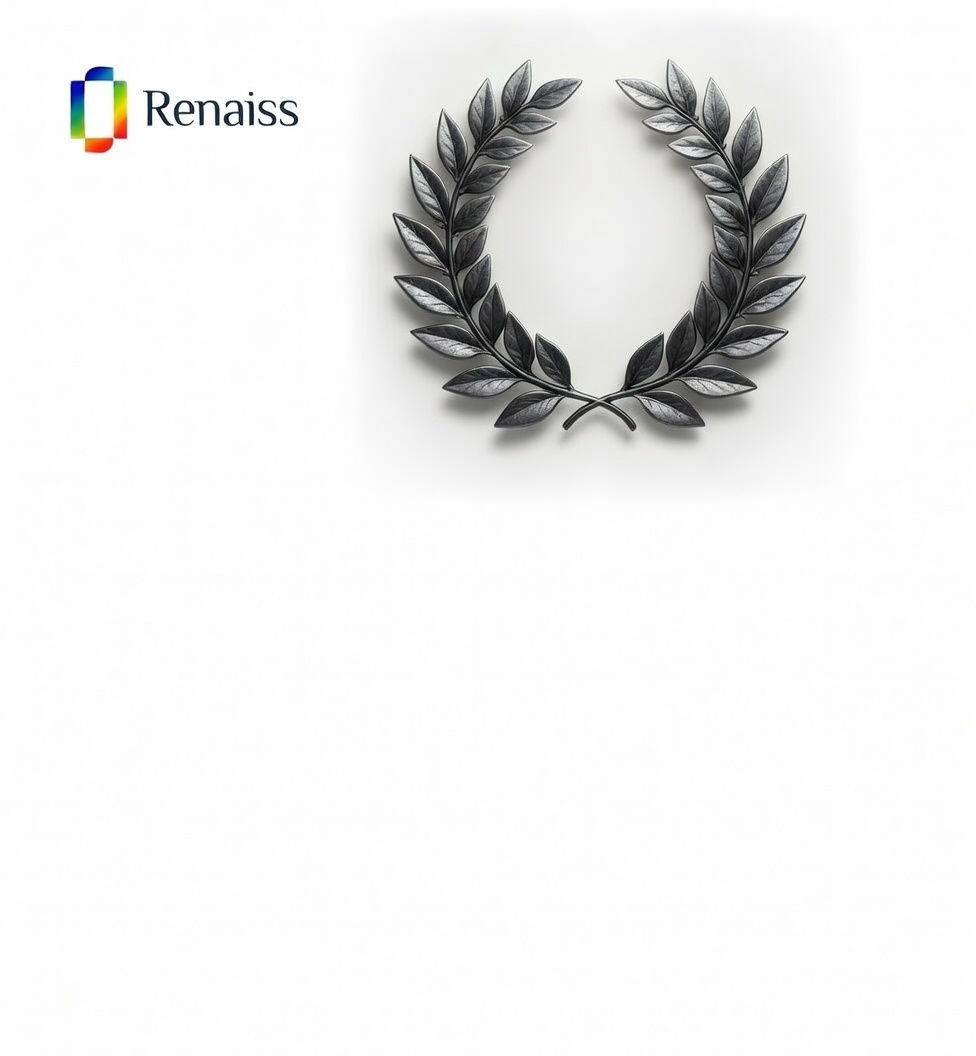
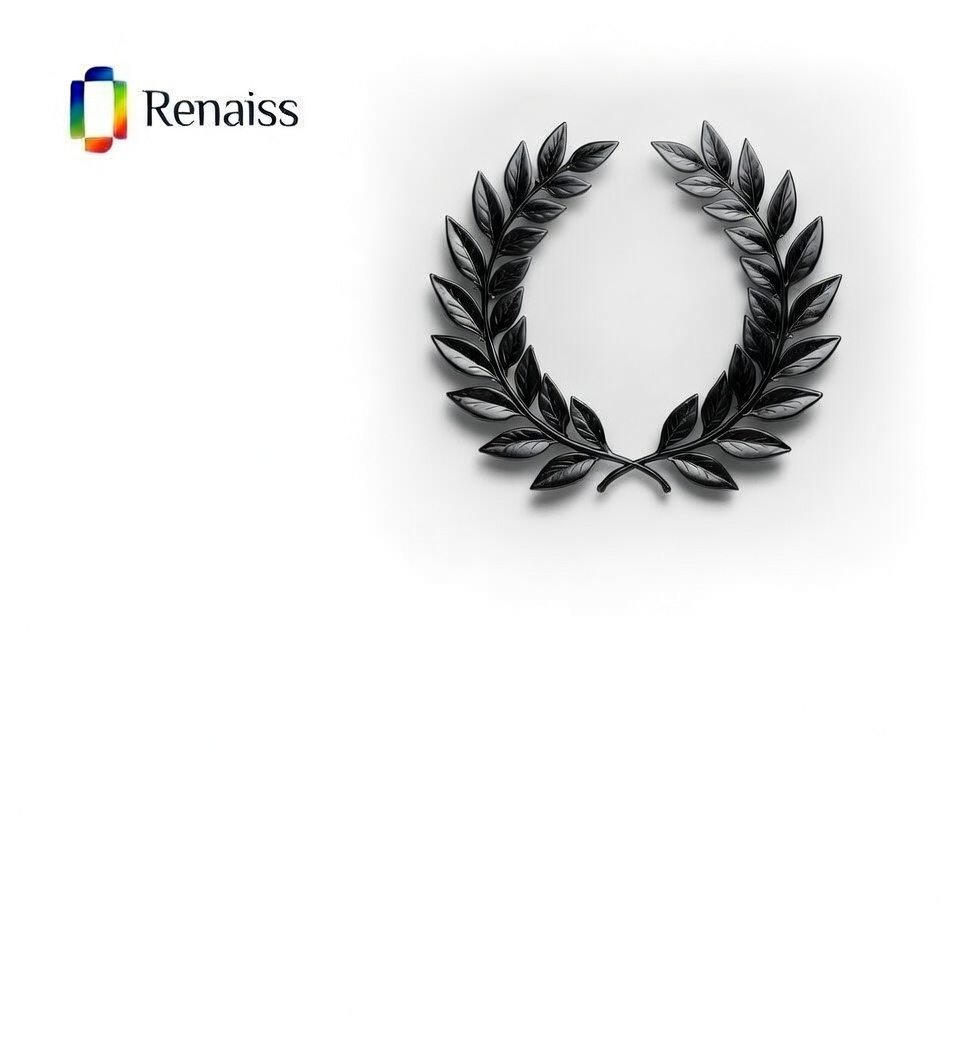
update background images and rank font dynamic scaling
- replace background images (gold/silver/copper/black)
- replace hardcoded rank font sizes with dynamic shrink loop (max width 220px)
- shift rank number 10px left, adjust RANK label and holders text position

Changed region(s): [[0.3689, 0.0625, 0.8607, 0.5], [0.1537, 0.0938, 0.3074, 0.125], [0.0615, 0.0625, 0.123, 0.1562]]

diff --git a/generate_card.py b/generate_card.py
@@ -228,14 +228,19 @@ def make_card(data: dict) -> str:
     draw = ImageDraw.Draw(canvas, "RGBA")
 
     # ── Fonts ──────────────────────────────────────────────────────────────────
-    rank_digits = len(str(data["rank"]))
-    if rank_digits >= 5:
-        rank_font_size = 90
-    elif rank_digits == 4:
-        rank_font_size = 115
-    else:
-        rank_font_size = 160
-    f_rank   = ImageFont.truetype(FONT_BOLD, rank_font_size)
+    rank_str      = f"{data['rank']}"
+    WREATH_MAX_W  = 220   # max pixel width for rank text inside wreath inner circle
+    rank_font_size = 160
+    f_rank = ImageFont.truetype(FONT_BOLD, rank_font_size)
+    rank_bbox = f_rank.getbbox(rank_str)
+    rank_w    = rank_bbox[2] - rank_bbox[0]
+    while rank_w > WREATH_MAX_W and rank_font_size > 40:
+        rank_font_size -= 4
+        f_rank    = ImageFont.truetype(FONT_BOLD, rank_font_size)
+        rank_bbox = f_rank.getbbox(rank_str)
+        rank_w    = rank_bbox[2] - rank_bbox[0]
+    rank_h = rank_bbox[3] - rank_bbox[1]
+
     f_label  = ImageFont.truetype(FONT_BOLD,  22)
     f_small  = ImageFont.truetype(FONT_REG,   18)
     f_mono   = ImageFont.truetype(FONT_MONO,  18)
@@ -260,21 +265,17 @@ def make_card(data: dict) -> str:
     draw.text((PAD, y + sbt_bbox[3] + 14), f"of {data['total_types']} types", font=f_small, fill=DARK)
 
     # ── RANK: centered inside the wreath ──────────────────────────────────────
-    rank_str  = f"{data['rank']}"
-    rank_bbox = f_rank.getbbox(rank_str)
-    rank_w    = rank_bbox[2] - rank_bbox[0]
-    rank_h    = rank_bbox[3] - rank_bbox[1]
 
-    # Draw rank number centered at wreath center
-    rx = WREATH_CX - rank_w // 2 - rank_bbox[0]
-    ry = WREATH_CY - rank_h // 2 - rank_bbox[1]
+    # Draw rank number centered at wreath center (shifted right+down)
+    rx = WREATH_CX - rank_w // 2 - rank_bbox[0] + 30
+    ry = WREATH_CY - rank_h // 2 - rank_bbox[1] + 60
     draw.text((rx, ry), rank_str, font=f_rank, fill=NAVY)
 
-    # "RANK" label — top-left corner of wreath inner area
-    draw.text((380, 65), "RANK", font=f_label, fill=GOLD)
+    # "RANK" label — moved down
+    draw.text((380, 135), "RANK", font=f_label, fill=GOLD)
 
-    # "of X,XXX holders" — bottom-right corner of wreath inner area
-    draw.text((800, 375), f"of {data['total_holders']:,}\nholders", font=f_small, fill=DARK)
+    # "of X,XXX holders" — shifted right+down
+    draw.text((830, 440), f"of {data['total_holders']:,}\nholders", font=f_small, fill=DARK)
 
     # ── BOTTOM: achievements list ──────────────────────────────────────────────
     title_y = MID + PAD - 10
